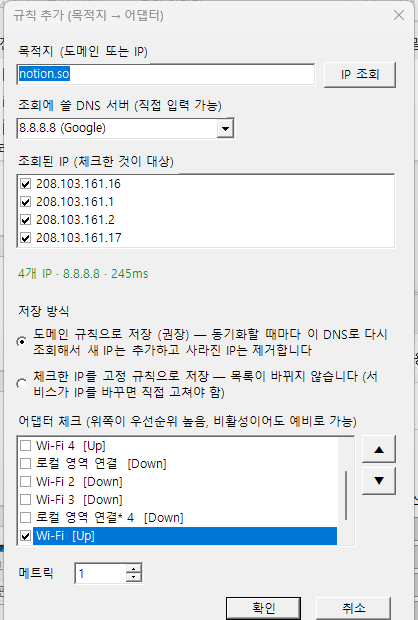
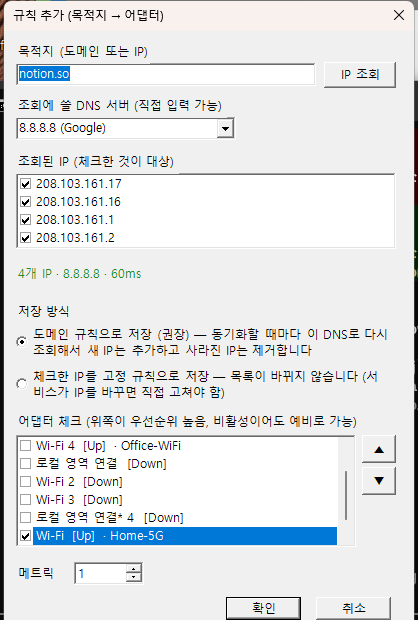
Show the connected Wi-Fi network name (SSID) per adapter (v1.2.0)
- Wlan: read each wireless adapter's current connection via the WLAN API (wlanapi.dll): SSID, signal, rates;
  mapped to adapter names by interface GUID, cached for 2s. Verified against `netsh wlan show interfaces`
- Shown in the connections tab (adapter column), throughput table (new SSID column), settings tab,
  routing rules tab (adapter priority list) and the add-rule dialog's adapter list
- Dialogs now take the adapter name up to the FIRST "  [" so an SSID containing "  [" cannot corrupt it
- --demo shows fake SSIDs and hides the VPN product name in TAP adapter descriptions for screenshots
- README: SSID display, refreshed screenshots

diff --git a/MainForm.cs b/MainForm.cs
@@ -106,7 +106,7 @@ namespace NetMonitor
             foreach (NetworkInterface n in NetworkInterface.GetAllNetworkInterfaces())
             {
                 if (n.NetworkInterfaceType == NetworkInterfaceType.Loopback) continue;
-                clb.Items.Add(n.Name + "  [" + n.OperationalStatus + "]");
+                clb.Items.Add(n.Name + "  [" + n.OperationalStatus + "]" + Store.NetSuffix(n));
             }
             Controls.Add(clb);
             if (single) clb.ItemCheck += OnSingleCheck;
@@ -155,7 +155,7 @@ namespace NetMonitor
                 foreach (int i in clb.CheckedIndices)
                 {
                     string s = clb.Items[i].ToString();
-                    Interfaces.Add(s.Substring(0, s.LastIndexOf("  [", StringComparison.Ordinal)));
+                    Interfaces.Add(s.Substring(0, s.IndexOf("  [", StringComparison.Ordinal)));   // 첫 "  [" 기준: 뒤에 붙은 SSID에 "  ["가 있어도 안전
                 }
                 if (Interfaces.Count == 0 || (!noTargetMode && Target.Length == 0))
                 {
@@ -235,7 +235,7 @@ namespace NetMonitor
             foreach (NetworkInterface n in NetworkInterface.GetAllNetworkInterfaces())
             {
                 if (n.NetworkInterfaceType == NetworkInterfaceType.Loopback) continue;
-                clb.Items.Add(n.Name + "  [" + n.OperationalStatus + "]");
+                clb.Items.Add(n.Name + "  [" + n.OperationalStatus + "]" + Store.NetSuffix(n));
             }
             Controls.Add(clb);
             Button up = new Button { Text = "▲", Left = 358, Top = 404, Width = 34, Height = 28 };
@@ -325,7 +325,7 @@ namespace NetMonitor
                 foreach (int i in clb.CheckedIndices)
                 {
                     string s = clb.Items[i].ToString();
-                    Interfaces.Add(s.Substring(0, s.LastIndexOf("  [", StringComparison.Ordinal)));
+                    Interfaces.Add(s.Substring(0, s.IndexOf("  [", StringComparison.Ordinal)));   // 첫 "  [" 기준: 뒤에 붙은 SSID에 "  ["가 있어도 안전
                 }
                 if (Target.Length == 0 || Interfaces.Count == 0)
                 {
@@ -459,6 +459,7 @@ namespace NetMonitor
                 foreach (UnicastIPAddressInformation u in n.GetIPProperties().UnicastAddresses)
                     if (u.Address.AddressFamily == AddressFamily.InterNetwork) ipMap[u.Address.ToString()] = n.Name;
 
+            Dictionary<string, WlanInfo> wifi = Store.WifiByName();
             Dictionary<int, string> procs = new Dictionary<int, string>();
             foreach (Process p in Process.GetProcesses()) { procs[p.Id] = p.ProcessName; p.Dispose(); }
 
@@ -475,9 +476,11 @@ namespace NetMonitor
                 if (!ipMap.TryGetValue(local, out ad)) ad = "(전체/미지정)";
                 if (ad[0] != '(' && !cmbAdapter.Items.Contains(ad)) cmbAdapter.Items.Add(ad);
                 if (filter != null && filter != "(전체)" && ad != filter) continue;
+                WlanInfo wi;
+                string adShow = wifi.TryGetValue(ad, out wi) ? ad + " (" + wi.Ssid + ")" : ad;   // 어댑터 이름 뒤에 접속 중인 Wi-Fi 이름
                 string pn, rule;
                 procs.TryGetValue(r.Pid, out pn); ruleByIp.TryGetValue(remote, out rule);
-                rows.Add(new object[] { pn, r.Pid, local + ":" + r.LocalPort, remote + ":" + r.RemotePort, r.StateName, ad, rule });
+                rows.Add(new object[] { pn, r.Pid, local + ":" + r.LocalPort, remote + ":" + r.RemotePort, r.StateName, adShow, rule });
             }
             rows.Sort(delegate (object[] a, object[] b)
             {
@@ -497,7 +500,8 @@ namespace NetMonitor
         void BuildGraphTab()
         {
             legend.Dock = DockStyle.Bottom; legend.Height = 120; legend.View = View.Details; legend.FullRowSelect = true;
-            legend.Columns.Add("어댑터", 160); legend.Columns.Add("↓ 수신", 110); legend.Columns.Add("↑ 송신", 110);
+            legend.Columns.Add("어댑터", 120); legend.Columns.Add("네트워크(SSID)", 140);
+            legend.Columns.Add("↓ 수신", 100); legend.Columns.Add("↑ 송신", 100);
             legend.Columns.Add("누적 수신", 110); legend.Columns.Add("누적 송신", 110); legend.Columns.Add("설명", 300);
             Label note = new Label { Dock = DockStyle.Top, Height = 22, Text = "  실선 = 수신(↓), 점선 = 송신(↑) · 최근 60초" };
             graph.Dock = DockStyle.Fill;
@@ -516,6 +520,7 @@ namespace NetMonitor
                 if (!s.Active || s.Rx.Count == 0) continue;
                 ListViewItem it = new ListViewItem(name);
                 it.ForeColor = s.Color;
+                it.SubItems.Add(s.Ssid ?? (s.Wireless ? "-" : "유선"));      // 접속 중인 Wi-Fi 이름
                 it.SubItems.Add(Store.FormatRate(s.Rx[s.Rx.Count - 1]));
                 it.SubItems.Add(Store.FormatRate(s.Tx[s.Tx.Count - 1]));
                 it.SubItems.Add((s.TotalRx / 1048576.0).ToString("N1") + " MB");
@@ -545,6 +550,7 @@ namespace NetMonitor
             lvAdapters.CheckBoxes = true; lvAdapters.FullRowSelect = true;
             lvAdapters.Columns.Add("이름", 130); lvAdapters.Columns.Add("장치 설명", 300); lvAdapters.Columns.Add("MAC", 150);
             lvAdapters.Columns.Add("상태", 100); lvAdapters.Columns.Add("구분", 60);
+            lvAdapters.Columns.Add("접속한 Wi-Fi(SSID)", 150);       // 맨 뒤에 둬서 '구분' 열 위치(SubItems[4])가 바뀌지 않게 함
             lvAdapters.ItemChecked += delegate (object s, ItemCheckedEventArgs e)
             {
                 if (!loadingList) e.Item.SubItems[4].Text = e.Item.Checked ? "무료" : "유료";
@@ -572,11 +578,12 @@ namespace NetMonitor
             return mac;
         }
 
-        void AddAdapterRow(string name, string desc, string mac, string status, bool free)
+        void AddAdapterRow(string name, string desc, string mac, string status, bool free, string ssid)
         {
             ListViewItem it = new ListViewItem(name);
             it.SubItems.Add(desc); it.SubItems.Add(MacDisplay(mac)); it.SubItems.Add(status);
             it.SubItems.Add(free ? "무료" : "유료");
+            it.SubItems.Add(ssid ?? "-");
             it.Tag = new string[] { name, mac, desc };
             if (status != "연결됨") it.ForeColor = SystemColors.GrayText;
             it.Checked = free;
@@ -593,17 +600,20 @@ namespace NetMonitor
         {
             loadingList = true; lvAdapters.BeginUpdate(); lvAdapters.Items.Clear();
             List<FreeEntry> unmatched = new List<FreeEntry>(settings.FreeAdapters);
+            Dictionary<string, WlanInfo> wifi = Store.WifiByName();
             foreach (NetworkInterface n in NetworkInterface.GetAllNetworkInterfaces())
             {
                 if (n.NetworkInterfaceType == NetworkInterfaceType.Loopback ||
                     n.NetworkInterfaceType == NetworkInterfaceType.Tunnel) continue;
                 string mac = Store.MacOf(n), name = n.Name, desc = n.Description;
+                if (demo && desc.StartsWith("TAP-Windows")) desc = "TAP-Windows Adapter V9";     // 스크린샷에 VPN 제품명이 드러나지 않게
                 unmatched.RemoveAll(delegate (FreeEntry e) { return e.Matches(name, mac, desc); });
+                WlanInfo wi;
                 AddAdapterRow(name, desc, mac, n.OperationalStatus == OperationalStatus.Up ? "연결됨" : "끊김",
-                    settings.IsFree(name, mac, desc));
+                    settings.IsFree(name, mac, desc), wifi.TryGetValue(name, out wi) ? wi.Ssid : null);
             }
             // 지금은 없지만 무료로 저장해 둔 어댑터(USB 동글을 뽑아둔 경우 등)도 목록에 유지
-            foreach (FreeEntry e in unmatched) AddAdapterRow(e.Name, e.Description, e.Mac, "없음(저장됨)", true);
+            foreach (FreeEntry e in unmatched) AddAdapterRow(e.Name, e.Description, e.Mac, "없음(저장됨)", true, null);
             numThreshold.Value = (decimal)Math.Min(settings.PaidThresholdKBps, 1000000);
             lvAdapters.EndUpdate(); loadingList = false;
         }
@@ -628,13 +638,13 @@ namespace NetMonitor
         void ShowDemoConnections()
         {
             object[][] rows = {
-                new object[] { "chrome", 4120, "172.16.12.20:51324", "198.51.100.10:443", "Established", "Wi-Fi 4", null },
-                new object[] { "chrome", 4120, "172.16.12.20:51330", "198.51.100.24:443", "Established", "Wi-Fi 4", null },
-                new object[] { "Teams", 8844, "172.16.12.20:51402", "203.0.113.5:443", "Established", "Wi-Fi 4", null },
-                new object[] { "OneDrive", 6012, "172.16.12.20:51477", "198.51.100.88:443", "Established", "Wi-Fi 4", null },
-                new object[] { "code", 7320, "172.16.12.20:51520", "203.0.113.41:443", "Established", "Wi-Fi 4", null },
-                new object[] { "ssh", 9210, "192.168.0.20:52011", "203.0.113.10:22", "Established", "Wi-Fi", "files.example.com" },
-                new object[] { "rsync", 9288, "192.168.0.20:52140", "203.0.113.10:873", "Established", "Wi-Fi", "files.example.com" },
+                new object[] { "chrome", 4120, "172.16.12.20:51324", "198.51.100.10:443", "Established", "Wi-Fi 4 (Office-WiFi)", null },
+                new object[] { "chrome", 4120, "172.16.12.20:51330", "198.51.100.24:443", "Established", "Wi-Fi 4 (Office-WiFi)", null },
+                new object[] { "Teams", 8844, "172.16.12.20:51402", "203.0.113.5:443", "Established", "Wi-Fi 4 (Office-WiFi)", null },
+                new object[] { "OneDrive", 6012, "172.16.12.20:51477", "198.51.100.88:443", "Established", "Wi-Fi 4 (Office-WiFi)", null },
+                new object[] { "code", 7320, "172.16.12.20:51520", "203.0.113.41:443", "Established", "Wi-Fi 4 (Office-WiFi)", null },
+                new object[] { "ssh", 9210, "192.168.0.20:52011", "203.0.113.10:22", "Established", "Wi-Fi (Home-5G)", "files.example.com" },
+                new object[] { "rsync", 9288, "192.168.0.20:52140", "203.0.113.10:873", "Established", "Wi-Fi (Home-5G)", "files.example.com" },
             };
             gridConn.Rows.Clear();
             foreach (object[] r in rows) gridConn.Rows.Add(r);
@@ -645,9 +655,9 @@ namespace NetMonitor
         {
             gridRules.Rows.Clear();
             object[][] rows = {
-                new object[] { "files.example.com", "203.0.113.10", "Wi-Fi > 이더넷", 1, "-", "Wi-Fi (정상)" },
-                new object[] { "app.example.org", "203.0.113.25 외 3개", "Wi-Fi", 1, "8.8.8.8", "Wi-Fi (정상) · IP 4개" },
-                new object[] { "cdn.example.net", "198.51.100.77", "Wi-Fi", 1, "1.1.1.1", "Wi-Fi 4 (불일치)" },
+                new object[] { "files.example.com", "203.0.113.10", "Wi-Fi (Home-5G) > 이더넷", 1, "-", "Wi-Fi (정상)" },
+                new object[] { "app.example.org", "203.0.113.25 외 3개", "Wi-Fi (Home-5G)", 1, "8.8.8.8", "Wi-Fi (정상) · IP 4개" },
+                new object[] { "cdn.example.net", "198.51.100.77", "Wi-Fi (Home-5G)", 1, "1.1.1.1", "Wi-Fi 4 (불일치)" },
             };
             foreach (object[] r in rows)
             {
@@ -699,6 +709,7 @@ namespace NetMonitor
                 List<Rule> rules = Store.LoadRulesWithStatus();
                 string def = Store.DefaultInterface();
                 string task = Store.AutoSyncStatus();
+                Dictionary<string, WlanInfo> wifi = Store.WifiByName();
                 try
                 {
                     BeginInvoke((MethodInvoker)delegate
@@ -707,7 +718,7 @@ namespace NetMonitor
                         Dictionary<string, string> map = new Dictionary<string, string>();
                         foreach (Rule r in rules)
                         {
-                            int i = gridRules.Rows.Add(r.Target, r.Ip, string.Join(" > ", r.Aliases.ToArray()), r.Metric,
+                            int i = gridRules.Rows.Add(r.Target, r.Ip, AliasText(r.Aliases, wifi), r.Metric,
                                 r.Dns.Length > 0 ? r.Dns : "-", r.Actual);
                             gridRules.Rows[i].Cells[5].Style.ForeColor = r.Ok ? Color.ForestGreen : Color.Firebrick;
                             foreach (string ip in r.Ips) map[ip] = r.Target;     // 연결 탭 '적용 규칙' 열용
@@ -719,6 +730,18 @@ namespace NetMonitor
                 }
                 catch (InvalidOperationException) { }   // 창 핸들이 아직 없거나 이미 닫힌 경우
             });
+        }
+
+        // 규칙의 어댑터 우선순위 목록 표시. 지금 Wi-Fi에 접속 중인 어댑터는 이름 뒤에 SSID를 붙인다: "Wi-Fi (Home-5G) > 이더넷"
+        static string AliasText(List<string> aliases, Dictionary<string, WlanInfo> wifi)
+        {
+            List<string> parts = new List<string>();
+            foreach (string a in aliases)
+            {
+                WlanInfo w;
+                parts.Add(wifi.TryGetValue(a, out w) ? a + " (" + w.Ssid + ")" : a);
+            }
+            return string.Join(" > ", parts.ToArray());
         }
 
         // WifiRoute.ps1 실행(UAC 대기 포함)은 백그라운드에서

diff --git a/Core.cs b/Core.cs
@@ -79,6 +79,76 @@ namespace NetMonitor
         }
     }
 
+    // ── 어댑터별 현재 접속한 Wi-Fi (WLAN API) ─────────────────────────
+    public class WlanInfo
+    {
+        public string Ssid = "";
+        public int Signal;           // 0~100
+        public int RxMbps, TxMbps;
+    }
+
+    public static class Wlan
+    {
+        [DllImport("wlanapi.dll")]
+        static extern int WlanOpenHandle(uint clientVersion, IntPtr reserved, out uint negotiatedVersion, out IntPtr handle);
+        [DllImport("wlanapi.dll")]
+        static extern int WlanCloseHandle(IntPtr handle, IntPtr reserved);
+        [DllImport("wlanapi.dll")]
+        static extern int WlanEnumInterfaces(IntPtr handle, IntPtr reserved, out IntPtr list);
+        [DllImport("wlanapi.dll")]
+        static extern int WlanQueryInterface(IntPtr handle, ref Guid iface, int opCode, IntPtr reserved, out int dataSize, out IntPtr data, IntPtr valueType);
+        [DllImport("wlanapi.dll")]
+        static extern void WlanFreeMemory(IntPtr p);
+
+        // 인터페이스 GUID("{...}", NetworkInterface.Id와 같은 형식) -> 연결 정보.
+        // WLAN AutoConfig 서비스가 없거나 연결된 무선이 없으면 빈 사전.
+        public static Dictionary<string, WlanInfo> Connected()
+        {
+            Dictionary<string, WlanInfo> res = new Dictionary<string, WlanInfo>(StringComparer.OrdinalIgnoreCase);
+            IntPtr h = IntPtr.Zero;
+            try
+            {
+                uint ver;
+                if (WlanOpenHandle(2, IntPtr.Zero, out ver, out h) != 0) return res;
+                IntPtr list;
+                if (WlanEnumInterfaces(h, IntPtr.Zero, out list) != 0) return res;
+                try
+                {
+                    int n = Marshal.ReadInt32(list, 0);
+                    for (int i = 0; i < n; i++)
+                    {
+                        int off = 8 + i * 532;                       // WLAN_INTERFACE_INFO: GUID 16 + 설명 512 + 상태 4
+                        byte[] gb = new byte[16];
+                        Marshal.Copy(new IntPtr(list.ToInt64() + off), gb, 0, 16);
+                        Guid g = new Guid(gb);
+                        if (Marshal.ReadInt32(list, off + 16 + 512) != 1) continue;   // 1 = connected
+                        IntPtr data; int size;
+                        if (WlanQueryInterface(h, ref g, 7, IntPtr.Zero, out size, out data, IntPtr.Zero) != 0) continue;   // 7 = 현재 연결
+                        try
+                        {
+                            WlanInfo w = new WlanInfo();
+                            int len = Marshal.ReadInt32(data, 520);   // WLAN_CONNECTION_ATTRIBUTES: SSID 길이 + 32바이트
+                            if (len < 0 || len > 32) len = 0;
+                            byte[] sb = new byte[len];
+                            if (len > 0) Marshal.Copy(new IntPtr(data.ToInt64() + 524), sb, 0, len);
+                            w.Ssid = Encoding.UTF8.GetString(sb);
+                            if (w.Ssid.Length == 0) w.Ssid = Marshal.PtrToStringUni(new IntPtr(data.ToInt64() + 8)) ?? "";   // 프로필 이름
+                            w.Signal = Marshal.ReadInt32(data, 576);
+                            w.RxMbps = Marshal.ReadInt32(data, 580) / 1000;
+                            w.TxMbps = Marshal.ReadInt32(data, 584) / 1000;
+                            res[g.ToString("B")] = w;
+                        }
+                        finally { WlanFreeMemory(data); }
+                    }
+                }
+                finally { WlanFreeMemory(list); }
+            }
+            catch { }
+            finally { if (h != IntPtr.Zero) WlanCloseHandle(h, IntPtr.Zero); }
+            return res;
+        }
+    }
+
     // ── 라우팅 규칙/설정 (WifiRoute.ps1과 같은 파일 사용) ────────────
     public class Rule
     {
@@ -295,6 +365,46 @@ namespace NetMonitor
             return "설치 안 됨" + when;
         }
 
+        public static bool Demo;       // --demo: 스크린샷용으로 SSID를 가짜 이름으로 바꿔 보여줌
+        static Dictionary<string, WlanInfo> wifiCache = new Dictionary<string, WlanInfo>(StringComparer.OrdinalIgnoreCase);
+        static DateTime wifiAt = DateTime.MinValue;
+        static readonly object wifiLock = new object();
+
+        // 어댑터 이름 -> 지금 접속 중인 Wi-Fi 정보(SSID, 신호). 무선이 아니거나 접속 안 된 어댑터는 들어 있지 않다.
+        // 화면 여러 곳에서 자주 부르므로 2초 동안 결과를 재사용한다 (UI 스레드와 백그라운드 스레드 양쪽에서 호출됨).
+        public static Dictionary<string, WlanInfo> WifiByName()
+        {
+            lock (wifiLock)
+            {
+                if ((DateTime.Now - wifiAt).TotalSeconds < 2) return wifiCache;
+                Dictionary<string, WlanInfo> byGuid = Wlan.Connected();
+                Dictionary<string, WlanInfo> map = new Dictionary<string, WlanInfo>(StringComparer.OrdinalIgnoreCase);
+                string[] fake = { "Office-WiFi", "Home-5G", "Phone-Hotspot" };
+                int k = 0;
+                foreach (NetworkInterface nic in NetworkInterface.GetAllNetworkInterfaces())
+                {
+                    WlanInfo w;
+                    if (!byGuid.TryGetValue(nic.Id, out w)) continue;
+                    if (Demo)
+                    {
+                        WlanInfo f = new WlanInfo();
+                        f.Ssid = fake[k++ % fake.Length]; f.Signal = w.Signal; f.RxMbps = w.RxMbps; f.TxMbps = w.TxMbps;
+                        w = f;
+                    }
+                    map[nic.Name] = w;
+                }
+                wifiCache = map; wifiAt = DateTime.Now;
+                return map;
+            }
+        }
+
+        // 어댑터 목록 글자 뒤에 붙일 "  · SSID" (접속한 Wi-Fi가 없으면 빈 문자열)
+        public static string NetSuffix(NetworkInterface nic)
+        {
+            WlanInfo w;
+            return WifiByName().TryGetValue(nic.Name, out w) ? "  · " + w.Ssid : "";
+        }
+
         // MAC 주소를 AA-BB-CC-DD-EE-FF 형식으로 (없으면 빈 문자열)
         public static string MacOf(NetworkInterface nic)
         {
@@ -508,7 +618,8 @@ namespace NetMonitor
     // ── 어댑터별 송수신 속도 샘플러 ─────────────────────────────
     public class Series
     {
-        public string Name, Description, Mac = "";
+        public string Name, Description, Mac = "", Ssid;     // Ssid: 지금 접속 중인 Wi-Fi 이름 (무선이 아니거나 접속 안 됐으면 null)
+        public bool Wireless;
         public List<double> Rx = new List<double>(), Tx = new List<double>();
         public long LastRx, LastTx, TotalRx, TotalTx;
         public bool Active, WasUp;
@@ -532,6 +643,7 @@ namespace NetMonitor
             double dt = now - last; if (dt <= 0) dt = 1;
             last = now;
             foreach (Series s in Items.Values) s.Active = false;
+            Dictionary<string, WlanInfo> wifi = Store.WifiByName();
 
             foreach (NetworkInterface nic in NetworkInterface.GetAllNetworkInterfaces())
             {
@@ -550,6 +662,9 @@ namespace NetMonitor
                 }
                 s.Description = nic.Description; s.Active = true;
                 s.Mac = Store.MacOf(nic);
+                s.Wireless = nic.NetworkInterfaceType == NetworkInterfaceType.Wireless80211;
+                WlanInfo wi;
+                s.Ssid = wifi.TryGetValue(nic.Name, out wi) ? wi.Ssid : null;
                 // 처음 보이거나 재연결된 직후에는 기준점만 잡고 0으로 기록 (누적 카운터 전체가 속도로 튀는 것 방지)
                 double rx = 0, tx = 0;
                 if (s.WasUp)
@@ -564,7 +679,7 @@ namespace NetMonitor
             }
             foreach (Series s in Items.Values)
             {
-                if (!s.Active) { s.Rx.Add(0); s.Tx.Add(0); s.WasUp = false; s.TotalRx = 0; s.TotalTx = 0; }
+                if (!s.Active) { s.Rx.Add(0); s.Tx.Add(0); s.WasUp = false; s.TotalRx = 0; s.TotalTx = 0; s.Ssid = null; }
                 while (s.Rx.Count > MaxPoints) { s.Rx.RemoveAt(0); s.Tx.RemoveAt(0); }
             }
         }

diff --git a/Program.cs b/Program.cs
@@ -9,8 +9,8 @@ using Microsoft.Win32;
 
 [assembly: AssemblyTitle("NetMonitor")]
 [assembly: AssemblyDescription("Per-destination routing across multiple network adapters, with live monitoring")]
-[assembly: AssemblyVersion("1.1.0.0")]
-[assembly: AssemblyFileVersion("1.1.0.0")]
+[assembly: AssemblyVersion("1.2.0.0")]
+[assembly: AssemblyFileVersion("1.2.0.0")]
 
 namespace NetMonitor
 {
@@ -231,6 +231,8 @@ namespace NetMonitor
                 if (a.Equals("--tray", StringComparison.OrdinalIgnoreCase) || a.Equals("-Tray", StringComparison.OrdinalIgnoreCase)) tray = true;
                 if (a.Equals("--demo", StringComparison.OrdinalIgnoreCase)) demo = true;     // README 스크린샷용
             }
+
+            Store.Demo = demo;     // 데모(스크린샷) 모드에서는 실제 Wi-Fi 이름 대신 가짜 이름을 보여준다
 
             // 중복 실행 방지 (데모 모드는 실행 중인 본 앱과 따로 뜰 수 있게 다른 이름 사용)
             bool created;
